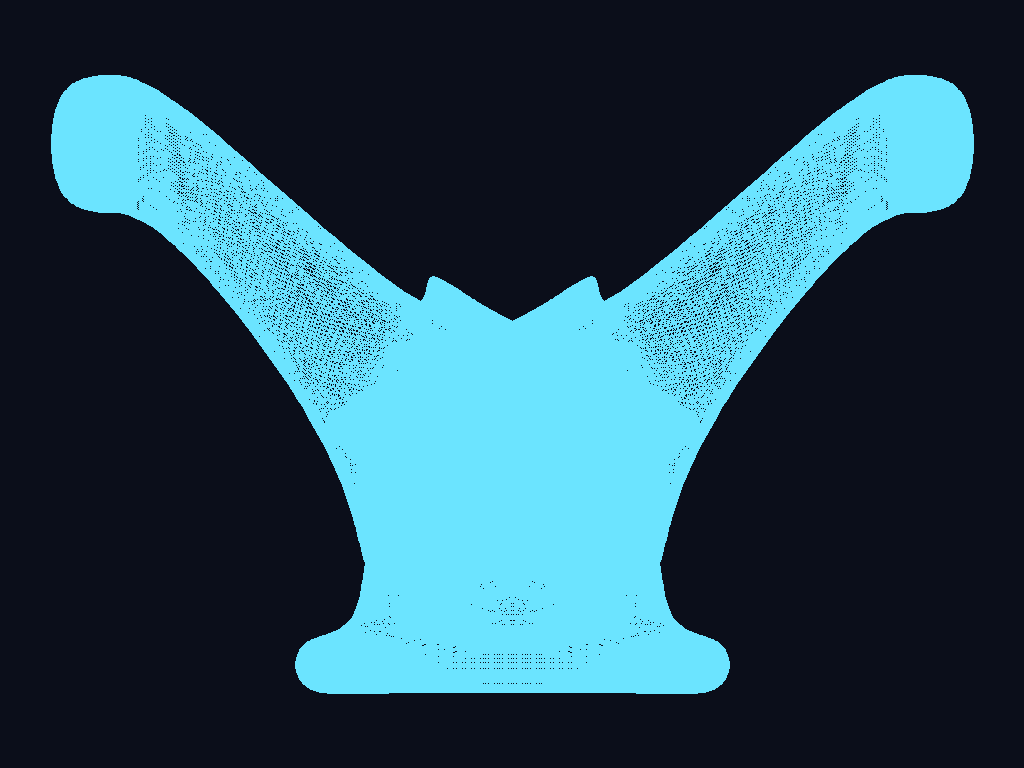
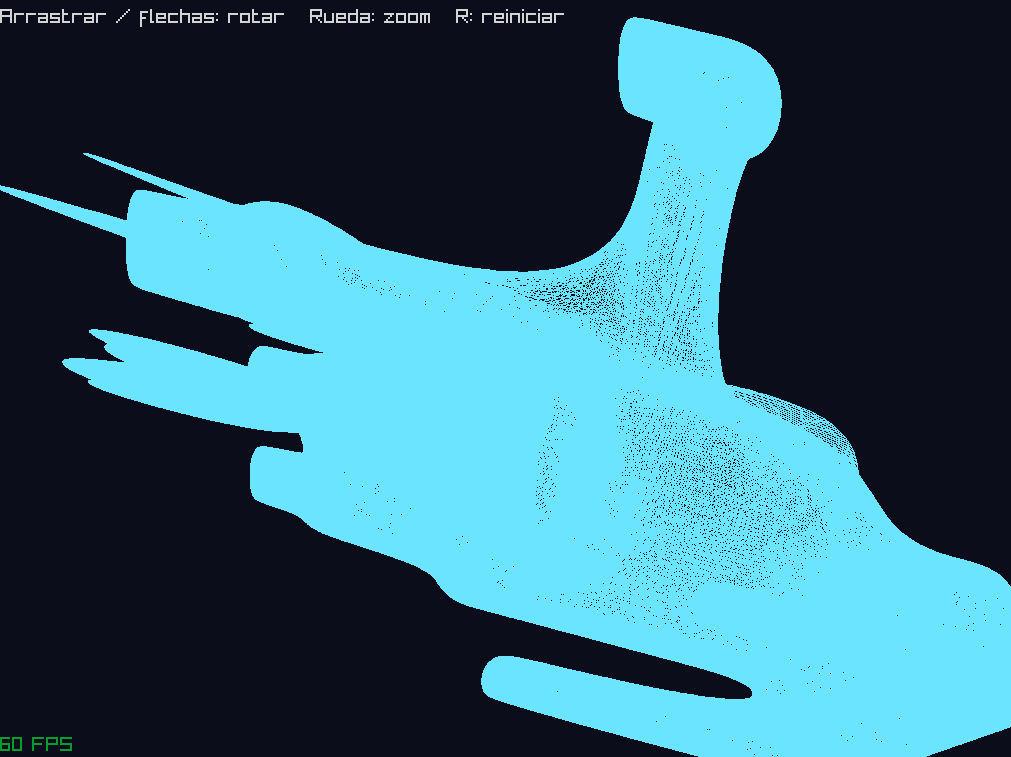
docs(readme): add English README with screenshots

diff --git a/README.md b/README.md
@@ -1,71 +1,84 @@
 # Spaceship Render
 
-Renderer por software escrito en Rust para el curso de Gráficas por Computadora (UVG).
-Carga un modelo `.obj` hecho en Blender y dibuja el contorno de todos sus triángulos
-con algoritmos propios. Raylib solo se usa para abrir la ventana, mostrar el
-framebuffer como textura y guardar la captura en PNG; **no** se usan sus funciones
-para cargar ni dibujar modelos.
+**English** · [Español](README.es.md)
 
-## Proyecto 1 — Parte 1: dibujando un modelo OBJ
+A software renderer written in Rust for the Computer Graphics course at Universidad del Valle de Guatemala (UVG).
+It loads a spaceship modeled in Blender from an `.obj` file and draws the outline of every one
+of its triangles using hand-written algorithms: an OBJ parser, Bresenham line drawing and a custom
+framebuffer.
 
-![Nave renderizada en wireframe](screenshot.png)
+Raylib is only used to open the window, display the framebuffer as a texture and read mouse and
+keyboard input. Raylib's model loading and drawing functions are **not** used. Every pixel of
+the model is drawn by this project's own code.
 
-Modelo: `spaceship.obj`, 286,689 vértices y 573,439 triángulos.
+## Screenshots
 
-Como todavía no hay proyección, se dibujan directamente las componentes `x` y `y`
-de cada vértice (vista de frente). Los vértices se escalan con la misma escala en
-ambos ejes y se trasladan para que el modelo quede centrado y ocupe el 90 % de la
-ventana sin salirse.
+![Spaceship wireframe, angled view](screenshot.png)
 
-## Cómo ejecutarlo
+| | |
+|---|---|
+| ![Close-up view](screenshot1.png) | ![Front view](screenshot2.png) |
 
-Requisitos: Rust (toolchain MSVC en Windows) y CMake, que el crate `raylib` usa para compilar Raylib.
+The model is `spaceship.obj`, with 286,689 vertices and 573,439 triangles.
+
+## Features
+
+- **OBJ loader:** reads vertex positions (`v`) and faces (`f`), converts the 1-based OBJ
+  indices to 0-based, accepts the `v/vt/vn` face format and splits faces with more than
+  three vertices into triangles (fan triangulation).
+- **Wireframe rendering:** every triangle is drawn as three Bresenham lines into the framebuffer.
+- **Automatic framing:** the model is centered and scaled to fit the window.
+- **Orbit camera:** you can rotate and zoom the model in real time. The projection is
+  orthographic for now; perspective comes in a later stage of the course.
+- **Redraw on demand:** the model is only redrawn when the camera moves.
+
+## Running
+
+Requirements: Rust (MSVC toolchain on Windows) and CMake, which the `raylib` crate uses to build Raylib.
 
 ```sh
 cargo run --release
 ```
 
-Abre una ventana de 1024×768 con el modelo y guarda la captura (vista de frente) en
-`screenshot.png`.
+This opens a 1024×768 window with the model and saves a front view to `screenshot.png`.
+Use `--release`: drawing 573k triangles in a debug build is much slower.
 
-### Controles
-
-| Entrada | Acción |
-|---|---|
-| Arrastrar con clic izquierdo / flechas | Rotar el modelo |
-| Rueda del mouse | Zoom |
-| `R` | Regresar a la vista inicial |
-
-La ventana arranca con el zoom necesario para que el modelo quepa completo desde
-cualquier ángulo. Solo se vuelve a dibujar cuando la cámara se mueve.
-Para generar solo la captura, sin abrir la ventana:
+To only generate the image, without opening the window:
 
 ```sh
 cargo run --release -- --no-window
 ```
 
-Para correr los tests:
+To run the tests:
 
 ```sh
 cargo test
 ```
 
-> **Windows:** `.cargo/config.toml` le indica a `bindgen` dónde están los headers de
-> MSVC porque en la máquina de desarrollo no los encontraba solo. Si tu instalación de
-> Visual Studio está en otra ruta, ajústala ahí (o borra el archivo si compila sin él).
+> **Windows:** `.cargo/config.toml` tells `bindgen` where the MSVC headers are, because it
+> could not find them on its own on the development machine. If your Visual Studio is installed
+> in a different path, update that file, or delete it if the project builds without it.
 
-## Cómo funciona
+### Controls
 
-```
-spaceship.obj → vértices + índices → triángulos → líneas → píxeles → ventana
-```
-
-| Archivo | Qué hace |
+| Input | Action |
 |---|---|
-| `src/obj.rs` | Cargador de OBJ: lee las líneas `v` (posiciones) y `f` (caras), convierte los índices de base 1 a base 0 y acepta grupos como `5/7/2`. |
-| `src/render.rs` | Escala, centra y rota los vértices (cámara orbital, proyección ortográfica) y recorre los triángulos de tres en tres índices. |
-| `src/line.rs` | `line` (algoritmo de Bresenham) y `triangle` (tres llamadas a `line`). |
-| `src/framebuffer.rs` | Buffer de color y z-buffer propios; se convierte a una `Image` de Raylib para mostrarse o exportarse. |
-| `src/color.rs` | Color RGB de 8 bits por canal. |
-| `src/main.rs` | Carga el modelo, lo dibuja en el framebuffer, guarda la captura y abre la ventana. |
-| `src/vertices.rs` | Ejercicio de la fase de vértices (`Vector2` y `Vector3`). |
+| Left-click drag / arrow keys | Rotate the model |
+| Mouse wheel | Zoom |
+| `R` | Reset the view |
+
+## How it works
+
+```
+spaceship.obj → vertices + indices → triangles → lines → pixels → window
+```
+
+| File | Purpose |
+|---|---|
+| `src/obj.rs` | OBJ loader that builds an `Obj { vertices, indices }`. |
+| `src/render.rs` | Camera, framing and the vertex-to-screen transform; walks the index list three at a time and draws each triangle. |
+| `src/line.rs` | `line` (Bresenham) and `triangle` (three calls to `line`). |
+| `src/framebuffer.rs` | Color buffer and z-buffer; exports to a Raylib image or texture. |
+| `src/color.rs` | 8-bit RGB color. |
+| `src/main.rs` | Loads the model, saves the screenshot, runs the window and handles input. |
+| `src/vertices.rs` | Warm-up exercise with `Vector2` and `Vector3`. |

diff --git a/README.es.md b/README.es.md
@@ -1,0 +1,77 @@
+# Spaceship Render
+
+[English](README.md) · **Español**
+
+Renderer por software escrito en Rust para el curso de Gráficas por Computadora (UVG).
+Carga un modelo `.obj` hecho en Blender y dibuja el contorno de todos sus triángulos
+con algoritmos propios. Raylib solo se usa para abrir la ventana, mostrar el
+framebuffer como textura y guardar la captura en PNG; **no** se usan sus funciones
+para cargar ni dibujar modelos.
+
+## Proyecto 1 — Parte 1: dibujando un modelo OBJ
+
+![Nave renderizada en wireframe](screenshot.png)
+
+| | |
+|---|---|
+| ![Vista de cerca](screenshot1.png) | ![Vista de frente](screenshot2.png) |
+
+Modelo: `spaceship.obj`, 286,689 vértices y 573,439 triángulos.
+
+Como todavía no hay proyección, se dibujan directamente las componentes `x` y `y`
+de cada vértice (vista de frente). Los vértices se escalan con la misma escala en
+ambos ejes y se trasladan para que el modelo quede centrado y ocupe el 90 % de la
+ventana sin salirse.
+
+## Cómo ejecutarlo
+
+Requisitos: Rust (toolchain MSVC en Windows) y CMake, que el crate `raylib` usa para compilar Raylib.
+
+```sh
+cargo run --release
+```
+
+Abre una ventana de 1024×768 con el modelo y guarda la captura (vista de frente) en
+`screenshot.png`.
+
+### Controles
+
+| Entrada | Acción |
+|---|---|
+| Arrastrar con clic izquierdo / flechas | Rotar el modelo |
+| Rueda del mouse | Zoom |
+| `R` | Regresar a la vista inicial |
+
+La ventana arranca con el zoom necesario para que el modelo quepa completo desde
+cualquier ángulo. Solo se vuelve a dibujar cuando la cámara se mueve.
+Para generar solo la captura, sin abrir la ventana:
+
+```sh
+cargo run --release -- --no-window
+```
+
+Para correr los tests:
+
+```sh
+cargo test
+```
+
+> **Windows:** `.cargo/config.toml` le indica a `bindgen` dónde están los headers de
+> MSVC porque en la máquina de desarrollo no los encontraba solo. Si tu instalación de
+> Visual Studio está en otra ruta, ajústala ahí (o borra el archivo si compila sin él).
+
+## Cómo funciona
+
+```
+spaceship.obj → vértices + índices → triángulos → líneas → píxeles → ventana
+```
+
+| Archivo | Qué hace |
+|---|---|
+| `src/obj.rs` | Cargador de OBJ: lee las líneas `v` (posiciones) y `f` (caras), convierte los índices de base 1 a base 0 y acepta grupos como `5/7/2`. |
+| `src/render.rs` | Escala, centra y rota los vértices (cámara orbital, proyección ortográfica) y recorre los triángulos de tres en tres índices. |
+| `src/line.rs` | `line` (algoritmo de Bresenham) y `triangle` (tres llamadas a `line`). |
+| `src/framebuffer.rs` | Buffer de color y z-buffer propios; se convierte a una `Image` de Raylib para mostrarse o exportarse. |
+| `src/color.rs` | Color RGB de 8 bits por canal. |
+| `src/main.rs` | Carga el modelo, lo dibuja en el framebuffer, guarda la captura y abre la ventana. |
+| `src/vertices.rs` | Ejercicio de la fase de vértices (`Vector2` y `Vector3`). |
